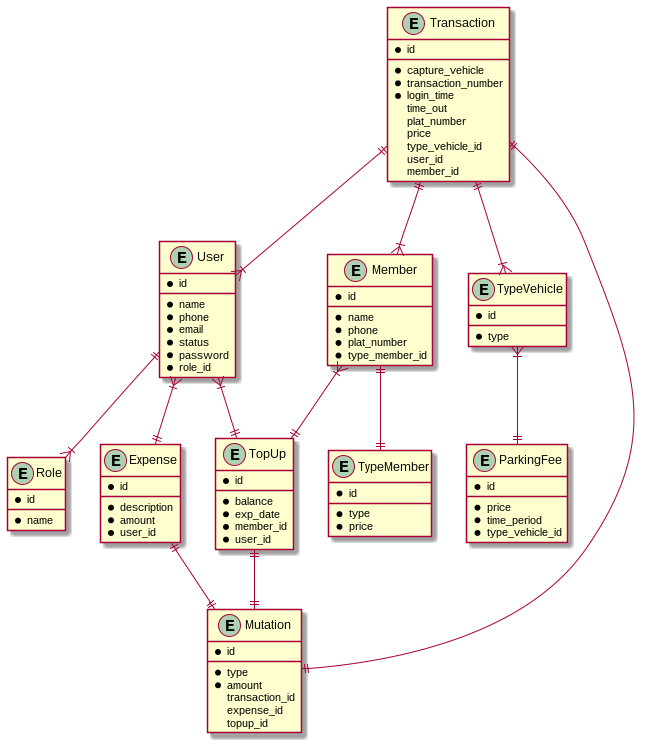
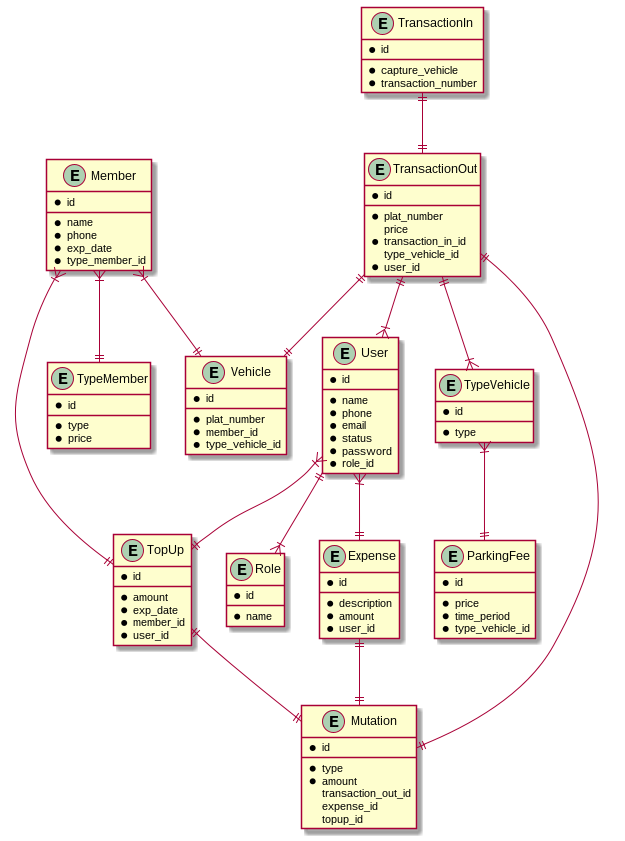
fix: migration

diff --git a/database/migrations/2022_04_23_122428_create_transaction_outs_table.php b/database/migrations/2022_04_23_122428_create_transaction_outs_table.php
@@ -13,17 +13,12 @@ return new class extends Migration
      */
     public function up()
     {
-        Schema::create('transactions', function (Blueprint $table) {
+        Schema::create('transaction_outs', function (Blueprint $table) {
             $table->id();
-            $table->timestamp('login_time');
-            $table->dateTime('time_out');
-            $table->unsignedInteger('price');
-            $table->string('plat_number')->unique();
-            $table->string('input_by');
-            $table->string('capture_vehicle');
+            $table->string('plat_number');
+            $table->foreignId('transaction_in_id')->constrained();
             $table->foreignId('type_vehicle_id')->constrained();
             $table->foreignId('user_id')->constrained();
-            $table->foreignId('member_id')->nullable()->default(null)->constrained();
             $table->timestamps();
         });
     }
@@ -35,6 +30,6 @@ return new class extends Migration
      */
     public function down()
     {
-        Schema::dropIfExists('tansactions');
+        Schema::dropIfExists('transaction_outs');
     }
 };

diff --git a/database/migrations/2022_04_23_130216_create_mutations_table.php b/database/migrations/2022_04_23_130216_create_mutations_table.php
@@ -13,12 +13,13 @@ return new class extends Migration
      */
     public function up()
     {
-        Schema::create('top_ups', function (Blueprint $table) {
+        Schema::create('mutations', function (Blueprint $table) {
             $table->id();
+            $table->string('type');
             $table->unsignedInteger('amount');
-            $table->dateTime('exp_date');
-            $table->foreignId('member_id')->constrained();
-            $table->foreignId('user_id')->constrained();
+            $table->foreignId('transaction_out')->nullable()->default(null)->constrained();
+            $table->foreignId('expense_id')->nullable()->default(null)->constrained();
+            $table->foreignId('top_up_id')->nullable()->default(null)->constrained();
             $table->timestamps();
         });
     }
@@ -30,6 +31,6 @@ return new class extends Migration
      */
     public function down()
     {
-        Schema::dropIfExists('topups');
+        Schema::dropIfExists('mutations');
     }
 };

diff --git a/database/migrations/2022_04_23_122416_create_transaction_ins_table.php b/database/migrations/2022_04_23_122416_create_transaction_ins_table.php
@@ -13,13 +13,10 @@ return new class extends Migration
      */
     public function up()
     {
-        Schema::create('mutations', function (Blueprint $table) {
+        Schema::create('transaction_ins', function (Blueprint $table) {
             $table->id();
-            $table->string('type');
-            $table->unsignedInteger('amount');
-            $table->foreignId('transaction_id')->nullable()->default(null)->constrained();
-            $table->foreignId('expense_id')->nullable()->default(null)->constrained();
-            $table->foreignId('top_up_id')->nullable()->default(null)->constrained();
+            $table->string('capture_vehicle');
+            $table->string('transaction_number');
             $table->timestamps();
         });
     }
@@ -31,6 +28,6 @@ return new class extends Migration
      */
     public function down()
     {
-        Schema::dropIfExists('mutations');
+        Schema::dropIfExists('transaction_ins');
     }
 };

diff --git a/database/migrations/2022_04_23_130215_create_vehicles_table.php b/database/migrations/2022_04_23_130215_create_vehicles_table.php
@@ -13,12 +13,11 @@ return new class extends Migration
      */
     public function up()
     {
-        Schema::create('top_ups', function (Blueprint $table) {
+        Schema::create('vehicles', function (Blueprint $table) {
             $table->id();
-            $table->unsignedInteger('amount');
-            $table->dateTime('exp_date');
+            $table->string('plat_number');
             $table->foreignId('member_id')->constrained();
-            $table->foreignId('user_id')->constrained();
+            $table->foreignId('type_vehicle_id')->constrained();
             $table->timestamps();
         });
     }
@@ -30,6 +29,6 @@ return new class extends Migration
      */
     public function down()
     {
-        Schema::dropIfExists('topups');
+        Schema::dropIfExists('vehicles');
     }
 };

diff --git a/database/migrations/2022_04_20_031728_create_members_table.php b/database/migrations/2022_04_20_031728_create_members_table.php
@@ -17,7 +17,7 @@ return new class extends Migration
             $table->id();
             $table->string('name');
             $table->string('phone')->unique();
-            $table->string('plat_number')->unique();
+            $table->dateTime('exp_date');
             $table->foreignId('type_member_id')->constrained();
             $table->timestamps();
         });
